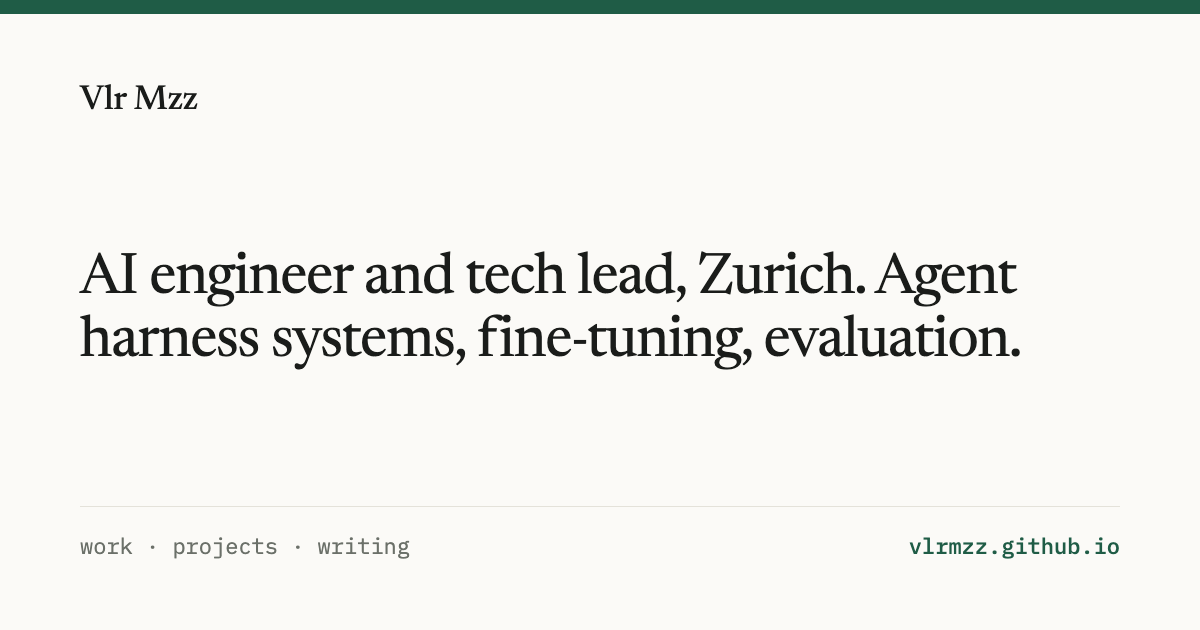
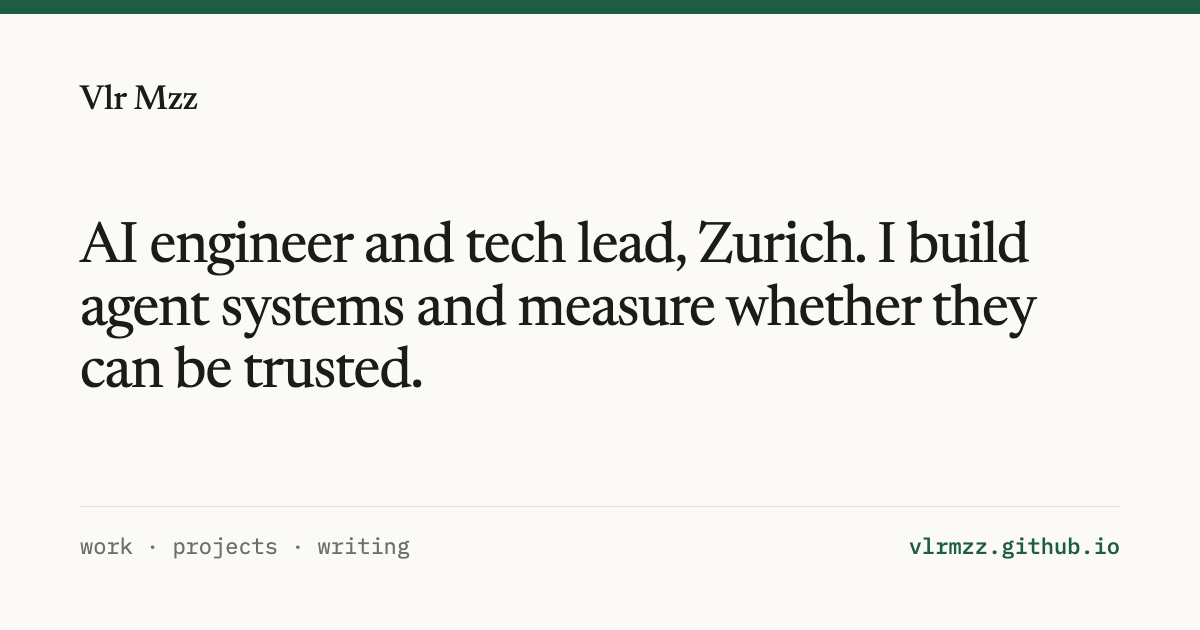
One narrative: building agent systems and measuring whether they can be trusted

Changed region(s): [[0.0617, 0.3317, 0.8633, 0.6333]]

diff --git a/about/index.html b/about/index.html
@@ -9,12 +9,12 @@
 <link rel="stylesheet" href="/assets/site.css">
 <link rel="icon" href="/favicon.ico">
 <title>About – Vlr Mzz</title>
-<meta name="description" content="Vlr Mzz, AI engineer and tech lead in Zurich. From physics and a PhD at KAUST to synthetic data and, now, agent systems, fine-tuning and evaluation.">
+<meta name="description" content="Vlr Mzz, AI engineer and tech lead in Zurich. From physics and a PhD at KAUST to synthetic data and, now, agent systems and the question of whether they can be trusted.">
 <link rel="canonical" href="https://vlrmzz.github.io/about/">
 <meta property="og:type" content="website">
 <meta property="og:site_name" content="Vlr Mzz">
 <meta property="og:title" content="About">
-<meta property="og:description" content="Vlr Mzz, AI engineer and tech lead in Zurich. From physics and a PhD at KAUST to synthetic data and, now, agent systems, fine-tuning and evaluation.">
+<meta property="og:description" content="Vlr Mzz, AI engineer and tech lead in Zurich. From physics and a PhD at KAUST to synthetic data and, now, agent systems and the question of whether they can be trusted.">
 <meta property="og:url" content="https://vlrmzz.github.io/about/">
 <meta property="og:image" content="https://vlrmzz.github.io/img/og/default.png">
 <meta property="og:image:width" content="1200">
@@ -39,22 +39,24 @@
 </header>
 <main id="main" class="wrap cv">
   <h1 class="page-title">About</h1>
-  <p class="lede">I'm Valerio, an AI engineer and tech lead in Zurich. I build systems around language models: the agents, the tools they use, and the evaluation that tells you whether they work.</p>
+  <p class="lede">I'm Valerio, an AI engineer and tech lead in Zurich. I build systems around language models, and I measure whether they can be trusted: the agents, the tools they use, and the evaluation that tells you whether they work.</p>
 
   <h2 class="sec-label">How I got here</h2>
   <p>I started in physics, with a master's degree at Sapienza University of Rome.</p>
   <p>For my PhD I moved to KAUST, in Saudi Arabia, and to electrical engineering. I worked on cryptography that is built into the physics of chaotic silicon chips. I also simulated those devices in C++ on supercomputers.</p>
   <p>In 2019 I came to Zurich as a postdoc at the University of Zurich, and I stayed until 2023. I kept simulating photonic devices, and I won two grants of my own.</p>
   <p>From 2021 to 2025 I led the AI engineering of Syntheticus, a company I founded that makes synthetic data: records with the statistics of real data that belong to nobody. Until 2023 I did this alongside the postdoc. The work meant generative models, differential privacy, and a layer that keeps personal data away from language models.</p>
-  <p>Since 2025 I have worked independently, through my own company. My work is now on language models: agent systems, fine-tuning and evaluation.</p>
+  <p>Since 2025 I have worked independently, through my own company. My work is now on language models: agent systems, their evaluation, and fine-tuning.</p>
+  <p>The subject changed less than the list suggests. A chip that keeps a secret, data that does not expose a patient, an agent that does what it reports: each one asks whether you can trust a system, and how you would know.</p>
   <p>I live in Zurich. I speak Italian, English and some German.</p>
 
-  <h2 class="sec-label">What I work on now</h2>
+  <h2 class="sec-label">What I work on</h2>
   <ul class="plain">
     <li><strong>Agent systems.</strong> Several agents that work together, the tools they call, and the control loop around them. See <a href="/work/coaching-agents.html">a multi-agent coaching system</a>.</li>
+    <li><strong>Evaluation.</strong> The tests that show whether a change made a system better, or only different. My experiments on <a href="/writing/self-repair-loops.html">self-repair loops</a>, <a href="/writing/jev-agent-failures.html">failure attribution</a> and <a href="/writing/confident-and-wrong.html">model confidence</a> are about this.</li>
     <li><strong>Fine-tuning for specific domains.</strong> Supervised fine-tuning or reinforcement learning, depending on what the task needs, and an honest comparison with the frontier models. See <a href="/work/rl-pentesting.html">reinforcement learning for a pentesting agent</a>.</li>
-    <li><strong>Evaluation.</strong> The tests that show whether a change made a system better, or only different.</li>
-    <li><strong>Synthetic data and privacy.</strong> On the EU project SEARCH, I work on how to judge whether synthetic health data is safe and still useful. See <a href="/work/search-sdac.html">SDAC</a> and my own <a href="/work/mimic-iv.html">generative model for health records</a>.</li>
+    <li><strong>AI security.</strong> A system of agents that runs penetration tests with no person in the loop. It is the subject of the same case study.</li>
+    <li><strong>Synthetic data and privacy.</strong> On the EU project SEARCH, I work on <a href="/work/search-sdac.html">SDAC</a>, a framework to judge whether synthetic health data is safe and still useful. See also my own <a href="/work/mimic-iv.html">generative model for health records</a>.</li>
   </ul>
   <p>In my own time I build <a href="/projects/">products</a> and run small <a href="/writing/">experiments</a> that test popular claims about AI.</p>
 

diff --git a/index.html b/index.html
@@ -9,12 +9,12 @@
 <link rel="stylesheet" href="/assets/site.css">
 <link rel="icon" href="/favicon.ico">
 <title>Vlr Mzz – AI engineer and tech lead, Zurich</title>
-<meta name="description" content="AI engineer and tech lead in Zurich. I build agent harness systems, fine-tune models for specific domains with supervised or reinforcement learning, and work on foundation models for structured data.">
+<meta name="description" content="AI engineer and tech lead in Zurich. I build agent systems and measure whether they can be trusted: the harness, the evaluation, fine-tuning for specific domains, and AI security.">
 <link rel="canonical" href="https://vlrmzz.github.io/">
 <meta property="og:type" content="website">
 <meta property="og:site_name" content="Vlr Mzz">
 <meta property="og:title" content="Vlr Mzz – AI engineer and tech lead, Zurich">
-<meta property="og:description" content="AI engineer and tech lead in Zurich. I build agent harness systems, fine-tune models for specific domains with supervised or reinforcement learning, and work on foundation models for structured data.">
+<meta property="og:description" content="AI engineer and tech lead in Zurich. I build agent systems and measure whether they can be trusted: the harness, the evaluation, fine-tuning for specific domains, and AI security.">
 <meta property="og:url" content="https://vlrmzz.github.io/">
 <meta property="og:image" content="https://vlrmzz.github.io/img/og/default.png">
 <meta property="og:image:width" content="1200">
@@ -44,8 +44,10 @@
       <img src="/img/valerio-round.jpg" alt="Cartoon of Valerio in a hoodie, smiling, with both arms up and making an OK sign" width="128" height="128">
       <h1>Hi, I'm Valerio.</h1>
     </div>
-    <p>I'm an AI engineer and tech lead in Zurich. I build agent harness systems: the orchestration, the tools and the evaluation that an agent needs to work every time, not only in a demo. I also fine-tune models for specific domains. I use supervised fine-tuning or reinforcement learning, depending on what the task needs. And I work on foundation models for structured data. Before AI, I studied physics and did a PhD in electrical engineering at KAUST.</p>
-    <p id="contact">Working on an AI project? Agents, fine-tuning, evaluation or AI security: <a class="eml" href="/#contact" data-e="em.mp@gnitlusnoc.ia.rlv" data-keep>email me</a> with a few lines about it.</p>
+    <p>I'm an AI engineer and tech lead in Zurich. I build agent systems, and I measure whether they can be trusted.</p>
+    <p>To build one means the harness that an agent runs inside: the orchestration, the tools and the control loop. To measure one means the evaluation that shows whether the agent works, and where it fails. I also fine-tune models for specific domains, and I compare the result with the frontier models. Part of this work is in security: I trained a model for a system of agents that runs penetration tests.</p>
+    <p>I came to agents from synthetic health data. The question there was the same: can you rely on what a model produced? Before AI, I studied physics and did a PhD in electrical engineering at KAUST.</p>
+    <p id="contact">Working on an AI project? Agents, evaluation, fine-tuning or AI security: <a class="eml" href="/#contact" data-e="em.mp@gnitlusnoc.ia.rlv" data-keep>email me</a> with a few lines about it.</p>
     <noscript><p class="meta">The address: <span class="rev">em.mp@gnitlusnoc.ia.rlv</span></p></noscript>
   </section>
 
@@ -53,7 +55,7 @@
   <ul class="entries">
     <li>
       <h3><a href="/work/rl-pentesting.html">Reinforcement learning for an autonomous pentesting agent</a></h3>
-      <p>I fine-tuned Qwen 32B with reinforcement learning for a multi-agent penetration-testing system. The training worked, and the frontier models still moved faster. Here is when fine-tuning pays.</p>
+      <p>I fine-tuned Qwen 32B with reinforcement learning for a multi-agent penetration-testing system, and scored it against known ground truth. The training worked, and the frontier models still moved faster. Here is when fine-tuning pays.</p>
       <span class="meta">Cybersecurity client</span>
     </li>
     <li>
@@ -90,7 +92,7 @@
   <p class="also">I also built MISTERO, an AI murder-mystery game, and Bussola, a platform for neutral analysis of public debates.</p>
 
   <h2 class="sec-label" id="writing"><a href="/writing/">Writing</a></h2>
-  <p>Small experiments that take a popular claim about AI and test it. You can run each one yourself.</p>
+  <p>Small experiments that take a popular claim about AI and test it. Several ask the same thing: when can you trust what a model or an agent tells you? You can run each one yourself.</p>
   <ul class="entries">
     <li>
       <h3><a href="/writing/self-repair-loops.html">Self-repair loops for coding agents: does running the tests make the code correct?</a></h3>

diff --git a/work/search-sdac.html b/work/search-sdac.html
@@ -44,6 +44,7 @@
     <dt>Project</dt><dd><a href="https://ihi-search.eu">SEARCH</a>, the Synthetic Healthcare Data Governance Hub</dd>
     <dt>Funding</dt><dd>Innovative Health Initiative Joint Undertaking, grant agreement No. 101172997</dd>
     <dt>Role</dt><dd>Senior AI engineer</dd>
+    <dt>Framework</dt><dd>SDAC: Synthetic Data Assessment and Credibility</dd>
     <dt>Size</dt><dd>A consortium of 26 institutions</dd>
   </dl>
 
@@ -59,8 +60,16 @@
   <p>So the first question for SEARCH is not how to generate synthetic health data. There are many methods. The first question is how a person who receives a dataset can know whether to rely on it, and how much checking is in proportion to its use.</p>
 
   <h2>What I work on</h2>
-  <p>SDAC is the assessment side of that question: the criteria and the method that are used to evaluate a synthetic dataset before anyone trusts it, for each type of data in the project.</p>
-  <p>The project documents on this subject are not public. This page describes the problem, not the framework.</p>
+  <p>I work on SDAC, the Synthetic Data Assessment and Credibility framework. It is the assessment side of that question: the method that is used to evaluate a synthetic dataset before anyone trusts it, for each type of data in the project.</p>
+  <p>The framework puts four checks into one validation process:</p>
+  <ul class="plain">
+    <li><strong>Privacy.</strong> Does the dataset expose the people behind the real data?</li>
+    <li><strong>Fidelity.</strong> Does it have the statistical structure of the real data?</li>
+    <li><strong>Utility.</strong> Does an analysis on it give the answer that the real data would give?</li>
+    <li><strong>Fairness.</strong> Does that hold for every group of patients, and not only on average?</li>
+  </ul>
+  <p>The project has delivered the first version of the framework.</p>
+  <p>The name and the four checks come from the <a href="https://cordis.europa.eu/project/id/101172997/reporting">public project report on CORDIS</a>, the European Commission's database of funded research. The short explanations of the checks are mine. The framework documents are not public, so this page does not describe the method.</p>
 
   <h2>How it connects to my own research</h2>
   <p>This work has a pair. <a href="/work/mimic-iv.html">My model for relational health records</a> generates synthetic patients. SDAC asks how you can decide whether to trust records like those.</p>

diff --git a/work/rl-pentesting.html b/work/rl-pentesting.html
@@ -44,7 +44,7 @@
     <dt>Client</dt><dd>Cybersecurity company</dd>
     <dt>Role</dt><dd>Senior AI engineer</dd>
     <dt>Model</dt><dd>Qwen 32B</dd>
-    <dt>Methods</dt><dd>Reinforcement learning, multi-agent systems (LangGraph)</dd>
+    <dt>Methods</dt><dd>Reinforcement learning, multi-agent systems (LangGraph), evaluation against known ground truth</dd>
   </dl>
 
   <h2>The problem</h2>
@@ -57,6 +57,10 @@
     <li>A fine-tune of Qwen 32B with reinforcement learning on that data.</li>
     <li>An evaluation against two references: the same model before training, and the frontier models.</li>
   </ul>
+
+  <h2>How I measured it</h2>
+  <p>I scored each model on test targets where the vulnerabilities are known in advance. Each finding was matched against that list. From the matches I measured precision, recall and F1, and counted the false negatives and the duplicates.</p>
+  <p>The base model, the fine-tuned model and the frontier models went through the same test.</p>
 
   <h2>Results</h2>
   <p>The training worked. The fine-tuned model was clearly better than its base on the client's tasks.</p>

diff --git a/work/index.html b/work/index.html
@@ -39,11 +39,11 @@
 </header>
 <main id="main" class="wrap">
   <h1 class="page-title">Work</h1>
-  <p class="lede">Systems I build for clients, and my own research.</p>
+  <p class="lede">Systems I build for clients, and my own research. One question runs through them: can you rely on what the system produced?</p>
   <ul class="entries">
     <li>
       <h3><a href="/work/rl-pentesting.html">Reinforcement learning for an autonomous pentesting agent</a></h3>
-      <p>I fine-tuned Qwen 32B with reinforcement learning for a multi-agent penetration-testing system. The training worked, and the frontier models still moved faster. Here is when fine-tuning pays.</p>
+      <p>I fine-tuned Qwen 32B with reinforcement learning for a multi-agent penetration-testing system, and scored it against known ground truth. The training worked, and the frontier models still moved faster. Here is when fine-tuning pays.</p>
       <span class="meta">Cybersecurity client</span>
     </li>
     <li>

diff --git a/work/mimic-iv.html b/work/mimic-iv.html
@@ -87,7 +87,7 @@
 
   <h2>Where this is going</h2>
   <p>The goal is a synthetic MIMIC-IV that is faithful enough to be useful and safe enough to share. Then work on clinical data does not always have to start with an access procedure.</p>
-  <p>Two questions decide whether a synthetic dataset reaches that goal: does it copy real patients, and is it realistic? I measure both. They are also the subject of my work in <a href="/work/search-sdac.html">SEARCH</a>.</p>
+  <p>Two questions decide whether a synthetic dataset reaches that goal: does it expose real patients, and does it keep the structure of the real data? These are privacy and fidelity, and I measure both. They are also two of the checks in <a href="/work/search-sdac.html">SDAC</a>, the framework I work on in SEARCH.</p>
 
   <p class="meta">MIMIC-IV is a research database of hospital records from Beth Israel Deaconess Medical Center. Access requires training and a data use agreement.</p>
 

diff --git a/writing/index.html b/writing/index.html
@@ -40,7 +40,7 @@
 </header>
 <main id="main" class="wrap">
   <h1 class="page-title">Writing</h1>
-  <p class="lede">Small experiments that take a popular claim about AI and test it. Each one has the same shape: the claim, a hypothesis, the setup, the experiment and the conclusion. Most have a notebook that you can run in your browser.</p>
+  <p class="lede">Small experiments that take a popular claim about AI and test it. Several ask the same thing: when can you trust what a model or an agent tells you? Each one has the same shape: the claim, a hypothesis, the setup, the experiment and the conclusion. Most have a notebook that you can run in your browser.</p>
   <ul class="entries">
     <li>
       <h3><a href="/writing/self-repair-loops.html">Self-repair loops for coding agents: does running the tests make the code correct?</a></h3>
